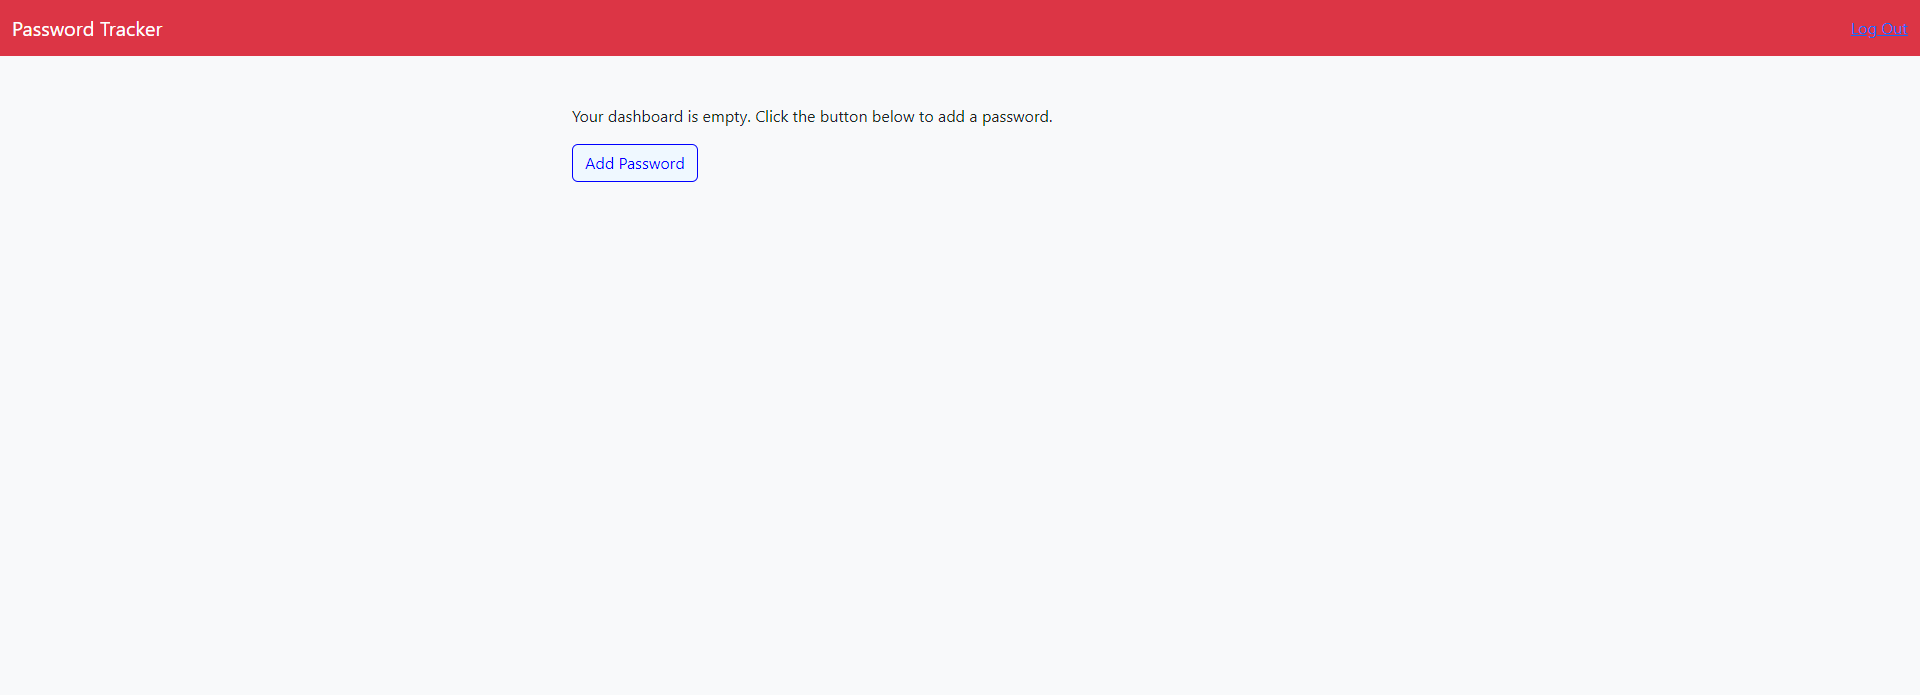
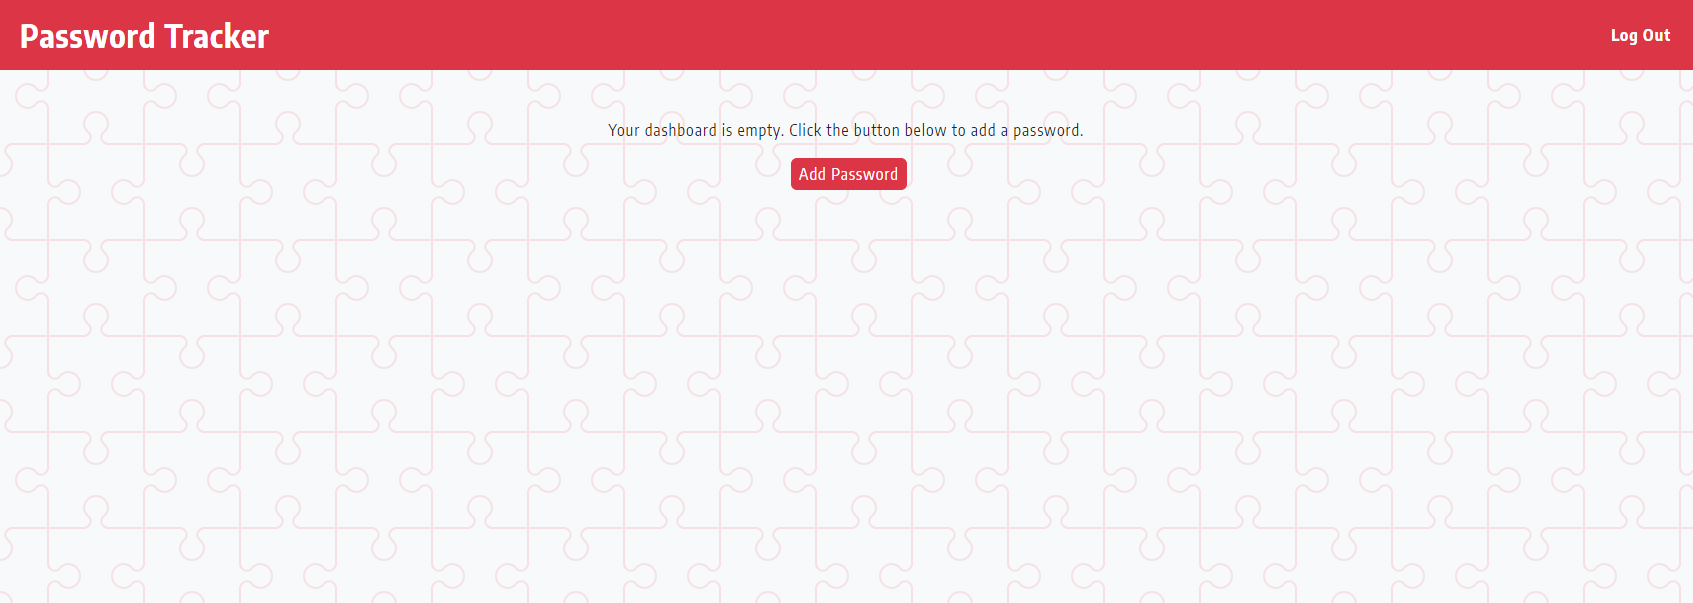
updated picture in README.md with new styling

Changed region(s): [[0.0, 0.0299, 1.0, 0.1194], [0.2764, 0.1493, 0.645, 0.3284]]

diff --git a/README.md b/README.md
@@ -15,8 +15,8 @@ These screenshots show images of our webpage/application.
 ![alt text](./images/localhost_3001_login.png)
 ![alt text](./images/localhost_3001_signup.png)
 ![alt text](./images/localhost_3001_dashboard.png)
-![alt text](./images/localhost_3001_dashboard%20(1).png)
 ![alt text](./images/localhost_3001_dashboard_new.png)
+![alt text](./images/localhost_3001_dashboard_info.png)
 ## Credits
 
 The following contributed to this project:
